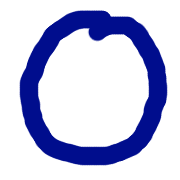
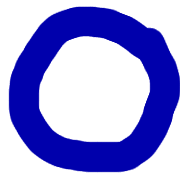
Turnskiptext fix & niewe kruisjes en nulletjes

diff --git a/src/nl/hanze/game/client/scenes/games/GameController.java b/src/nl/hanze/game/client/scenes/games/GameController.java
@@ -158,7 +158,6 @@ public abstract class GameController extends Controller implements Initializable
     public void acceptNewMoves() {
         // check if the next turn belongs to an AIPlayer and if so, request a move
         if (model.getActivePlayer().getPlayerType() == PlayerType.AI && !model.hasGameEnded()) {
-            System.out.println("Paging Julius...");
 
             new Thread(() -> {
                 Move move = model.getActivePlayer().calculateMove(model.getBoard(), model.getInactivePlayer());
@@ -237,7 +236,7 @@ public abstract class GameController extends Controller implements Initializable
     @Override
     public void changeScene() {
         timer.cancel();
-
+        GameModel.skippedTurnText = "";
         super.changeScene();
     }
 

diff --git a/src/nl/hanze/game/client/scenes/games/othello/OthelloController.java b/src/nl/hanze/game/client/scenes/games/othello/OthelloController.java
@@ -4,6 +4,7 @@ import javafx.fxml.FXML;
 import javafx.scene.control.Label;
 import javafx.scene.text.Font;
 import nl.hanze.game.client.scenes.games.GameController;
+import nl.hanze.game.client.scenes.games.GameModel;
 import nl.hanze.game.client.scenes.games.othello.utils.OthelloBoard;
 
 import java.net.URL;
@@ -37,7 +38,6 @@ public class OthelloController extends GameController {
         graphic2.setFont(font);
         scoreLabel1.setGraphic(graphic1);
         scoreLabel2.setGraphic(graphic2);
-        skippedTurnText.setText("");
         gameBoard.setGridLinesVisible(true);
         drawCoordinates();
     }
